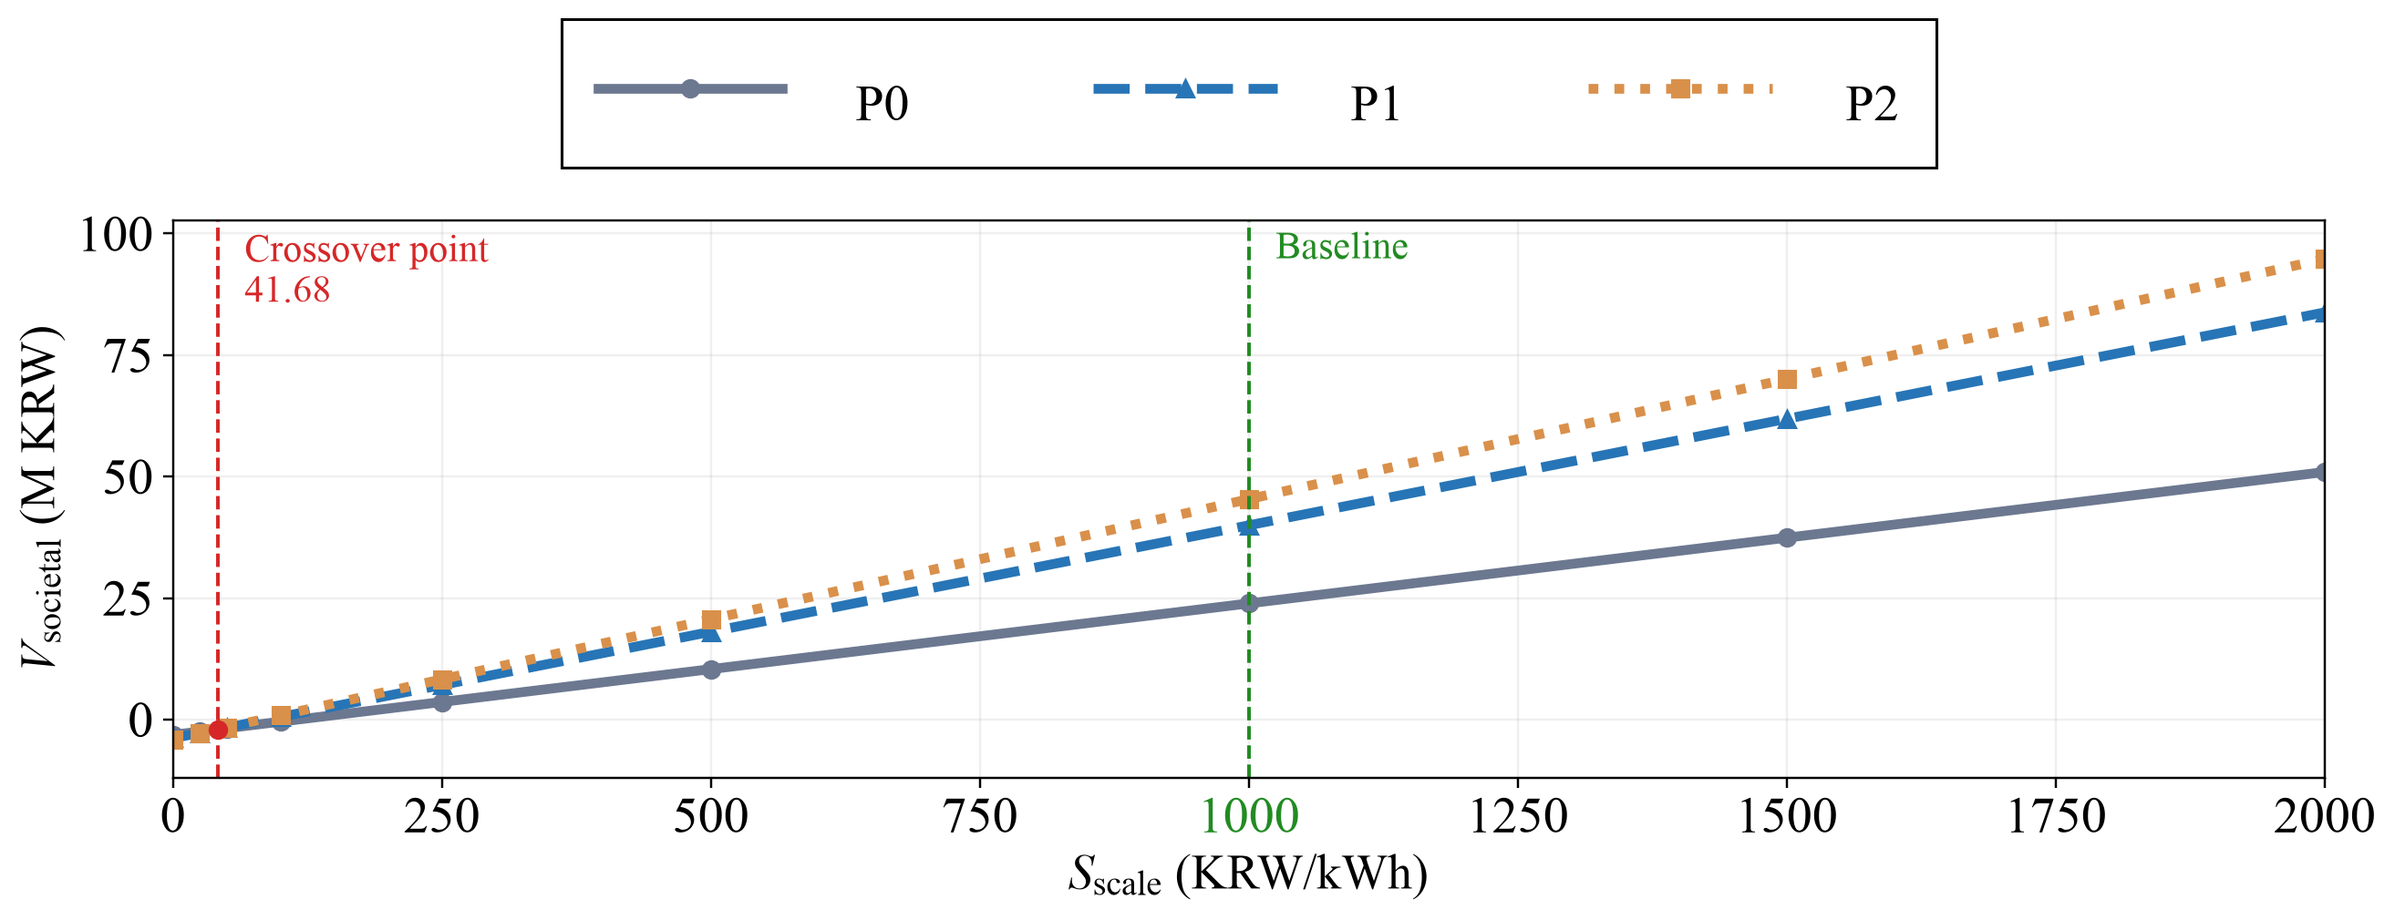
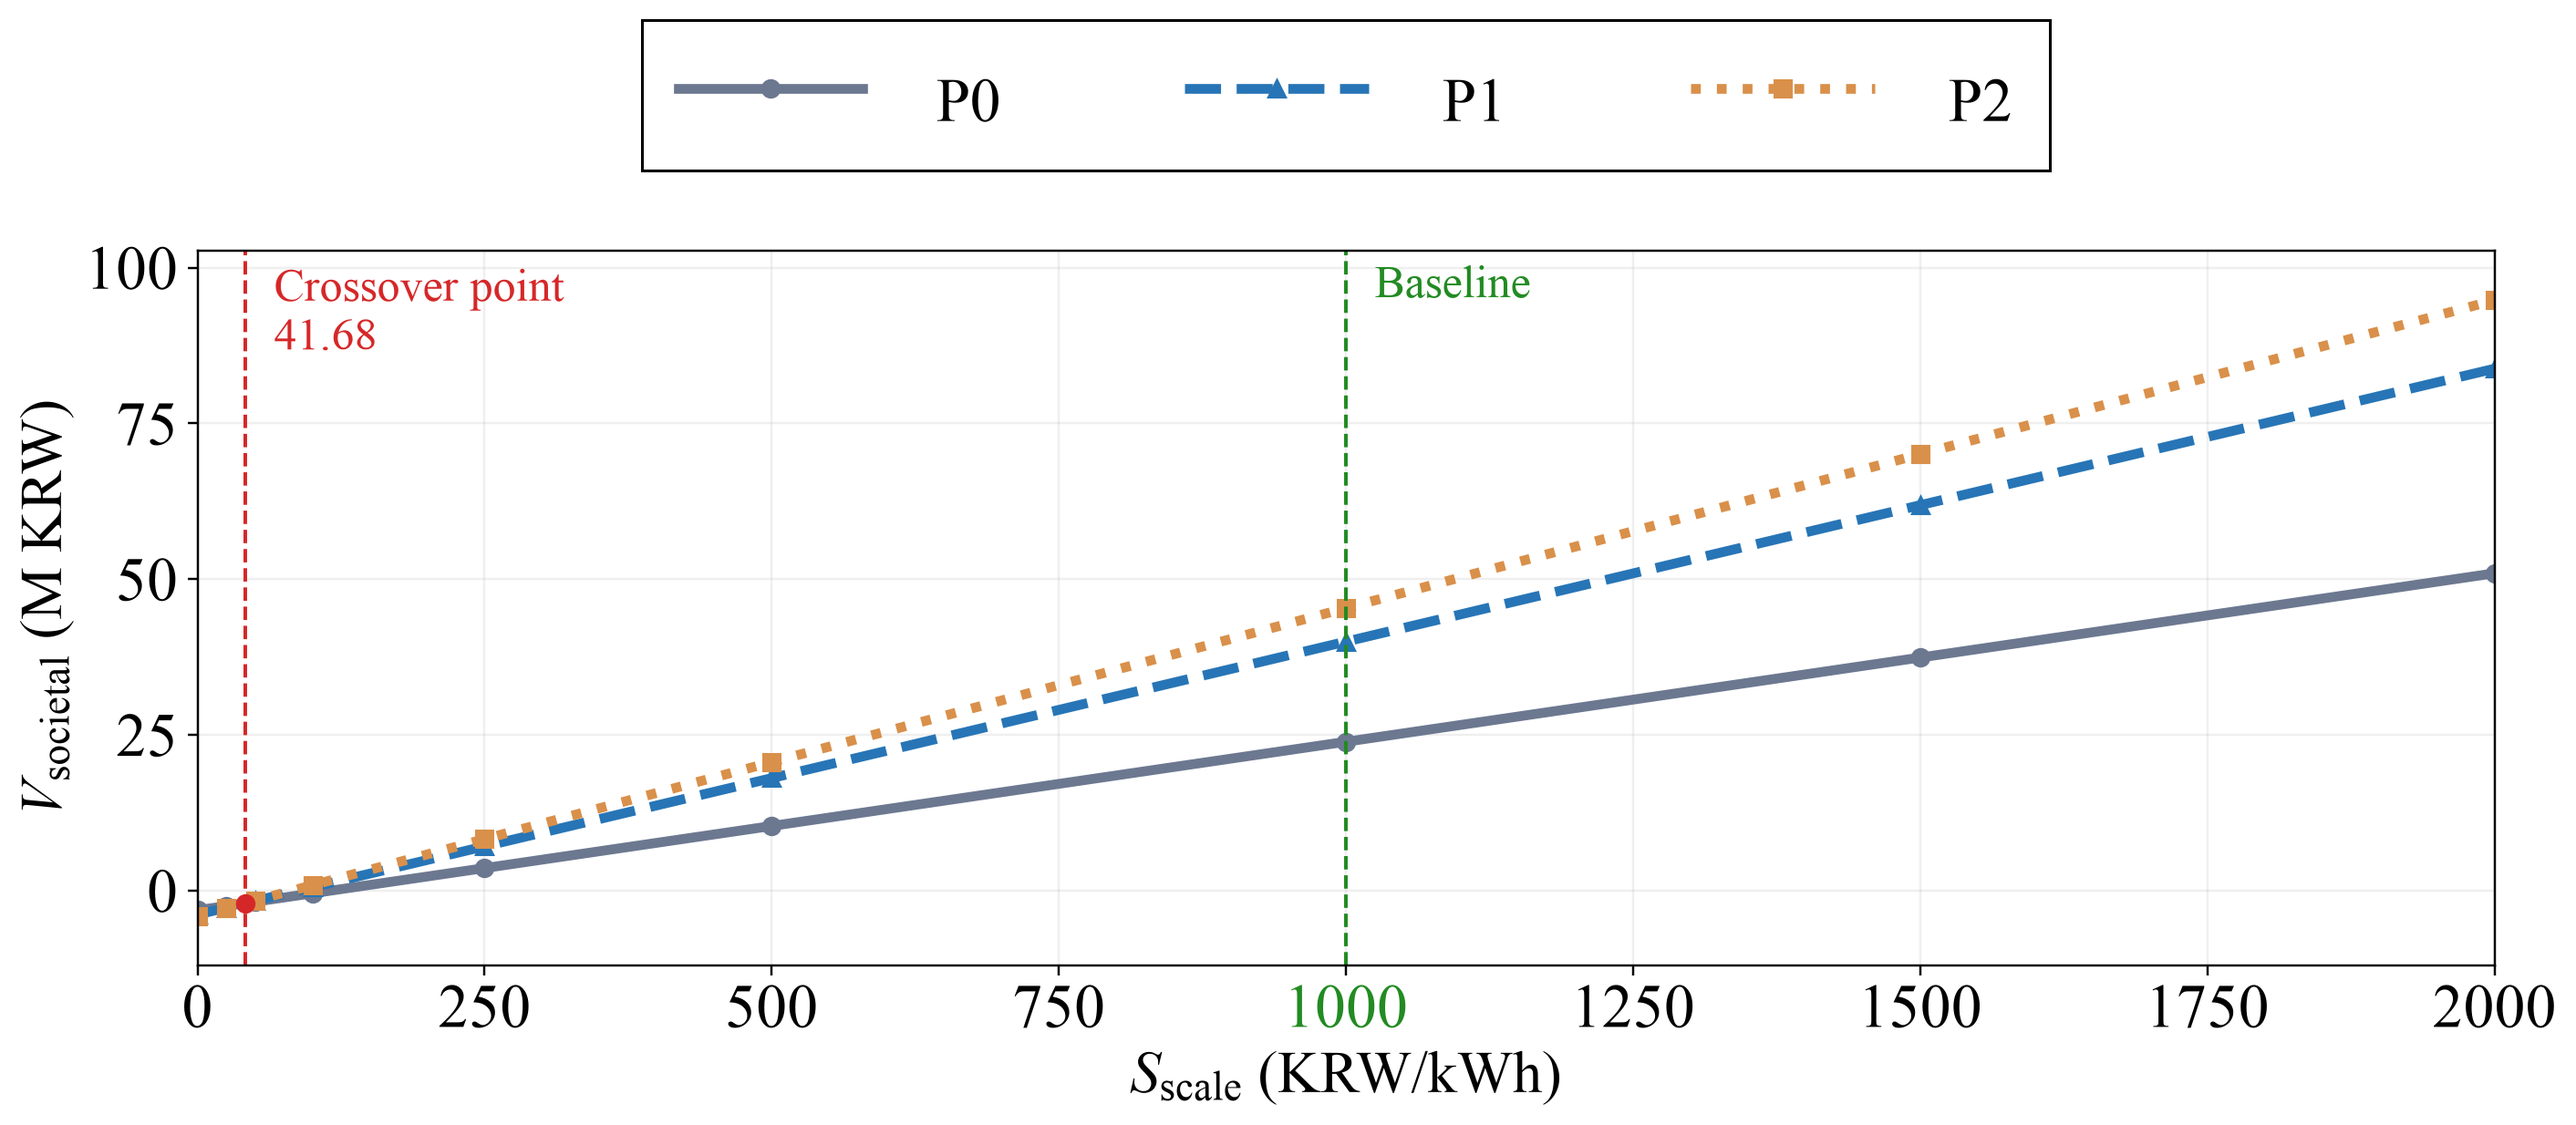
Increase Figure 11 height and typography

diff --git a/p1_additional_analysis.py b/p1_additional_analysis.py
@@ -118,7 +118,7 @@ def main() -> None:
             "mathtext.bf": "Times New Roman:bold",
         }
     )
-    fig, axis = plt.subplots(figsize=(22, 4.9248))
+    fig, axis = plt.subplots(figsize=(22, 5.90976))
     for trucks in (1, 2, 5):
         p0 = runs[1.3, trucks, Strategy.P0]
         proposed = runs[1.3, trucks, Strategy.P1]
@@ -186,7 +186,7 @@ def main() -> None:
         axis.set_xlabel(r"$S_{\mathrm{scale}}$ (KRW/kWh)")
         axis.set_ylabel(r"$V_{\mathrm{societal}}$ (M KRW)")
         axis.tick_params(axis="y", labelleft=True)
-        axis.set_box_aspect(0.2592)
+        axis.set_box_aspect(0.31104)
         axis.set_xlim(0, 2000)
         axis.set_xticks(np.arange(0, 2001, 250))
         axis.get_xticklabels()[4].set_color("#228b22")
@@ -207,7 +207,7 @@ def main() -> None:
         framealpha=1.0,
         prop={"size": TICK_SIZE},
     )
-    scale_figure_text(fig, 0.5508)
+    scale_figure_text(fig, 0.66096)
     fig.tight_layout(rect=(0, 0, 1, 0.89))
     save(fig, "fig11_voll_sensitivity_of_net_societal_benefit")
     write_rows("p1_voll_sensitivity.csv", sensitivity)
